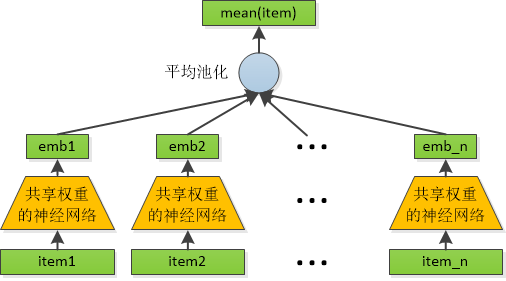
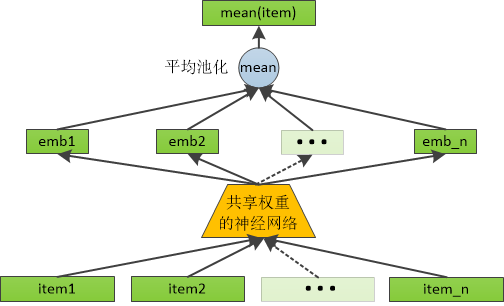
modify shared weights NN

diff --git a/docs/recommender-systems/advanced-knowledge/user-behavior-sequence/short-sequence/shared-weight-neural-networks-pooling/shared-weight-neural-networks-pooling.md b/docs/recommender-systems/advanced-knowledge/user-behavior-sequence/short-sequence/shared-weight-neural-networks-pooling/shared-weight-neural-networks-pooling.md
@@ -10,7 +10,7 @@
 
 
 
-# 问题描述
+# 想法描述
 
 给用户行为序列进行建模，每个item的输入为n维向量，有m个item，可采用类似卷积结构那样的方法，用同一个输入为m维的神经网络NN，对这m个item依次进行神经网络运算，然后再把得到结果进行拼接。这个m维输出的神经网络NN的作用方式，就类似于卷积神经网络的卷积头，使用同一套参数对m个item进行神经网络计算。
 
@@ -42,7 +42,7 @@
 
 # 代码实现
 
-假设用户行为序列有3个item，每个item有5维特征，即输入是一个$5\times 3$的矩阵。你用一个共享的神经网络处理每个item的特征，假设每个item输出的维度为 4（即$k=4$），那么你将得到一个$3 \times 4$的矩阵。如果你用最大池化（或其他池化方法）处理这个矩阵，最终得到一个固定长度的向量，然后进行后续决策。
+假设用户行为序列有2个item，每个item有3维特征，即输入是一个$2\times 3$的矩阵。你用一个共享的神经网络处理每个item的特征，假设每个item输出的维度为3（即$k=3$），那么你将得到一个$2\times 3$的矩阵。如果你用最大池化（或其他池化方法）处理这个矩阵，最终得到一个固定长度的向量，然后进行后续决策。
 
 ```python
 import torch
